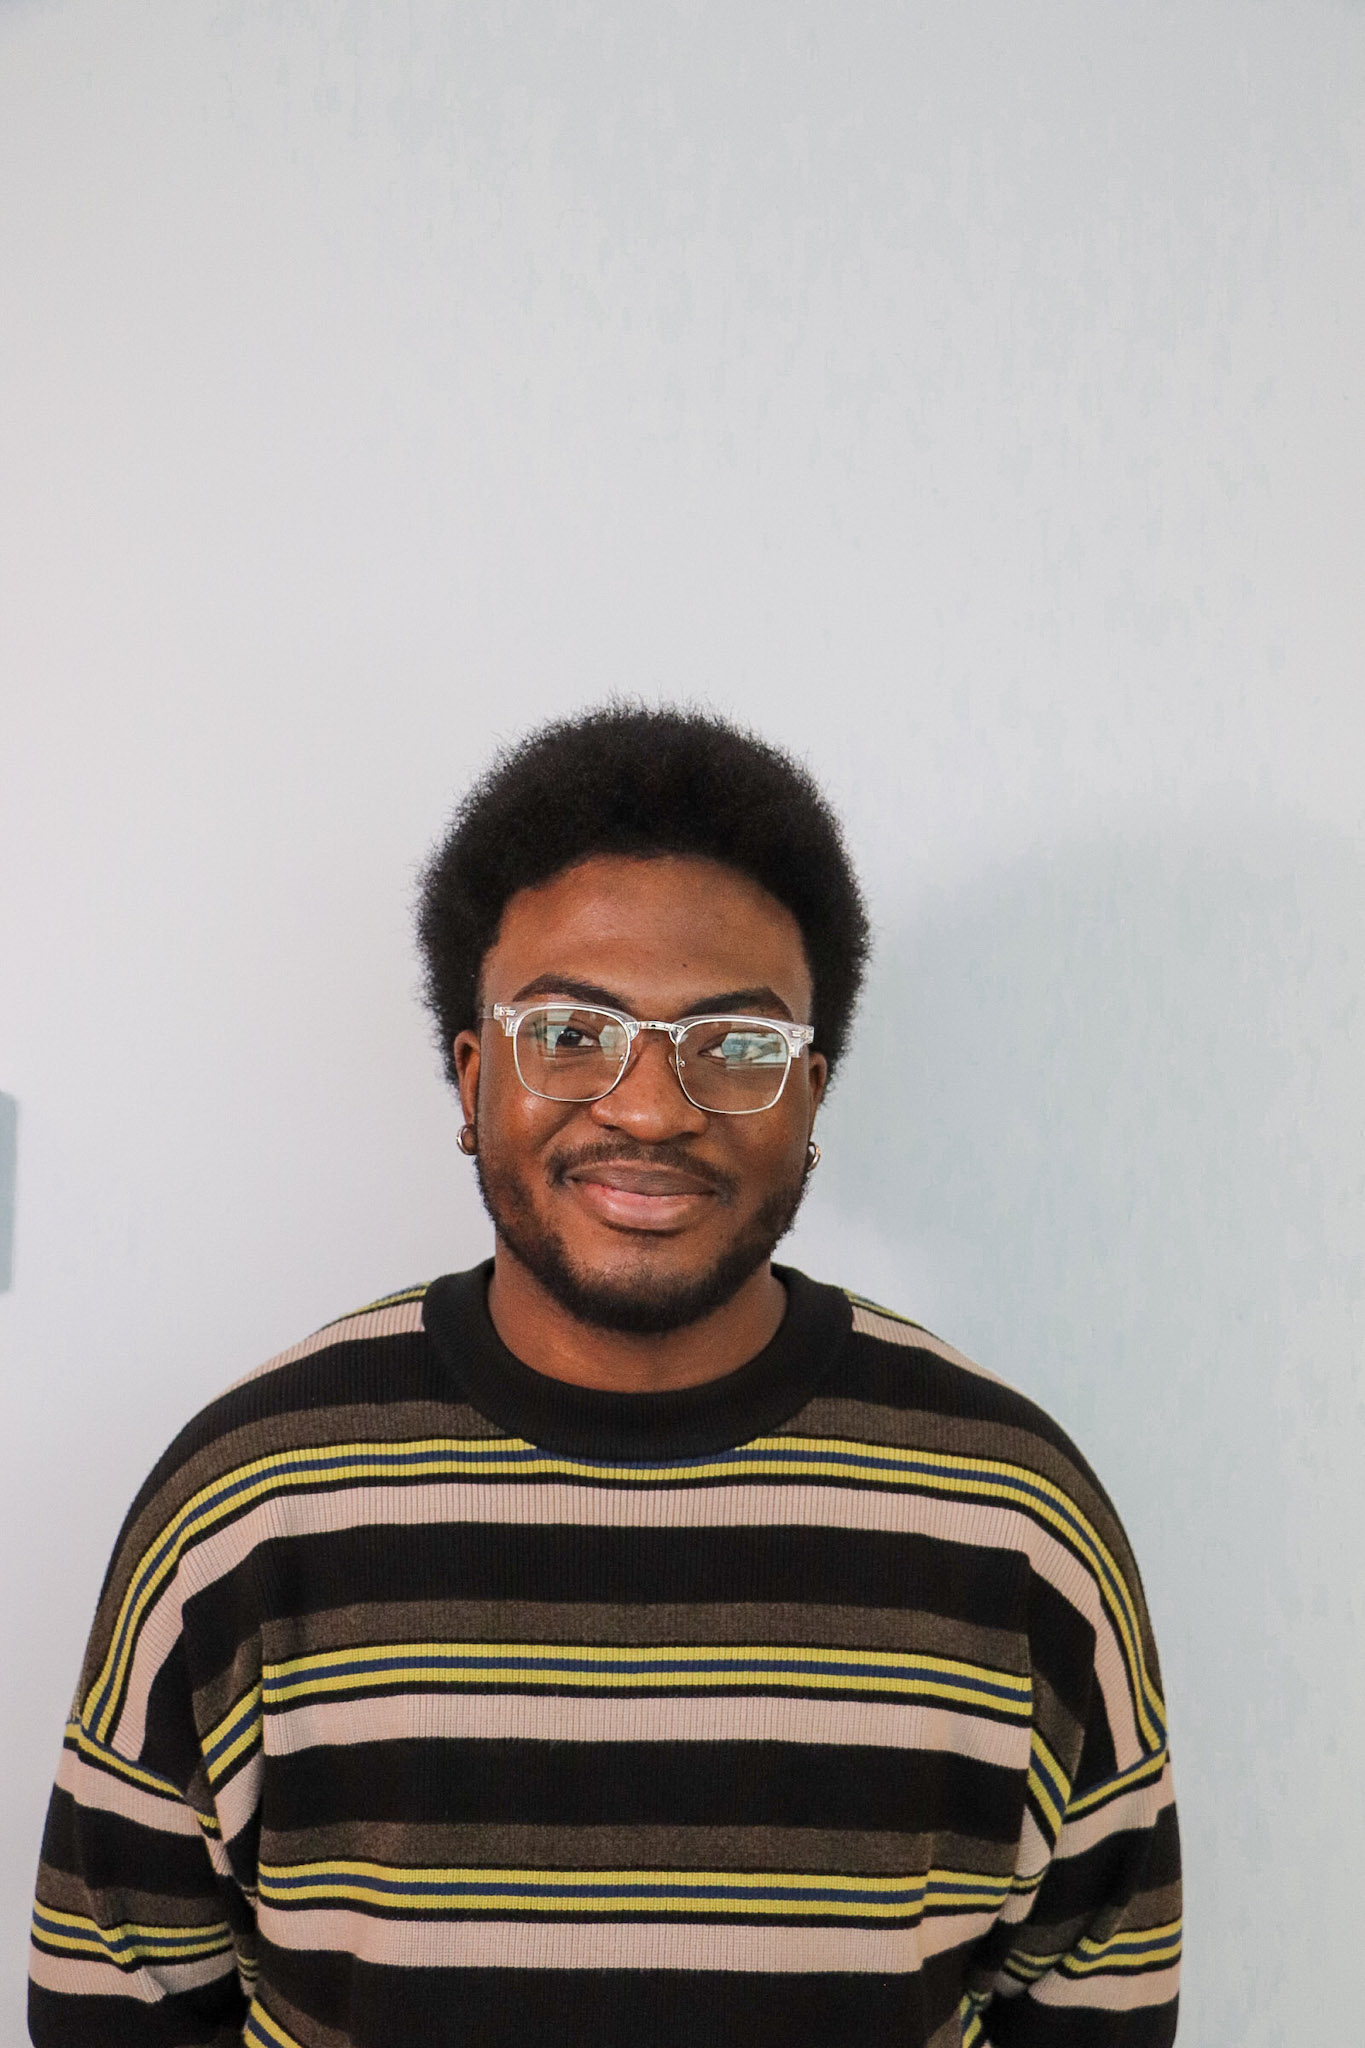
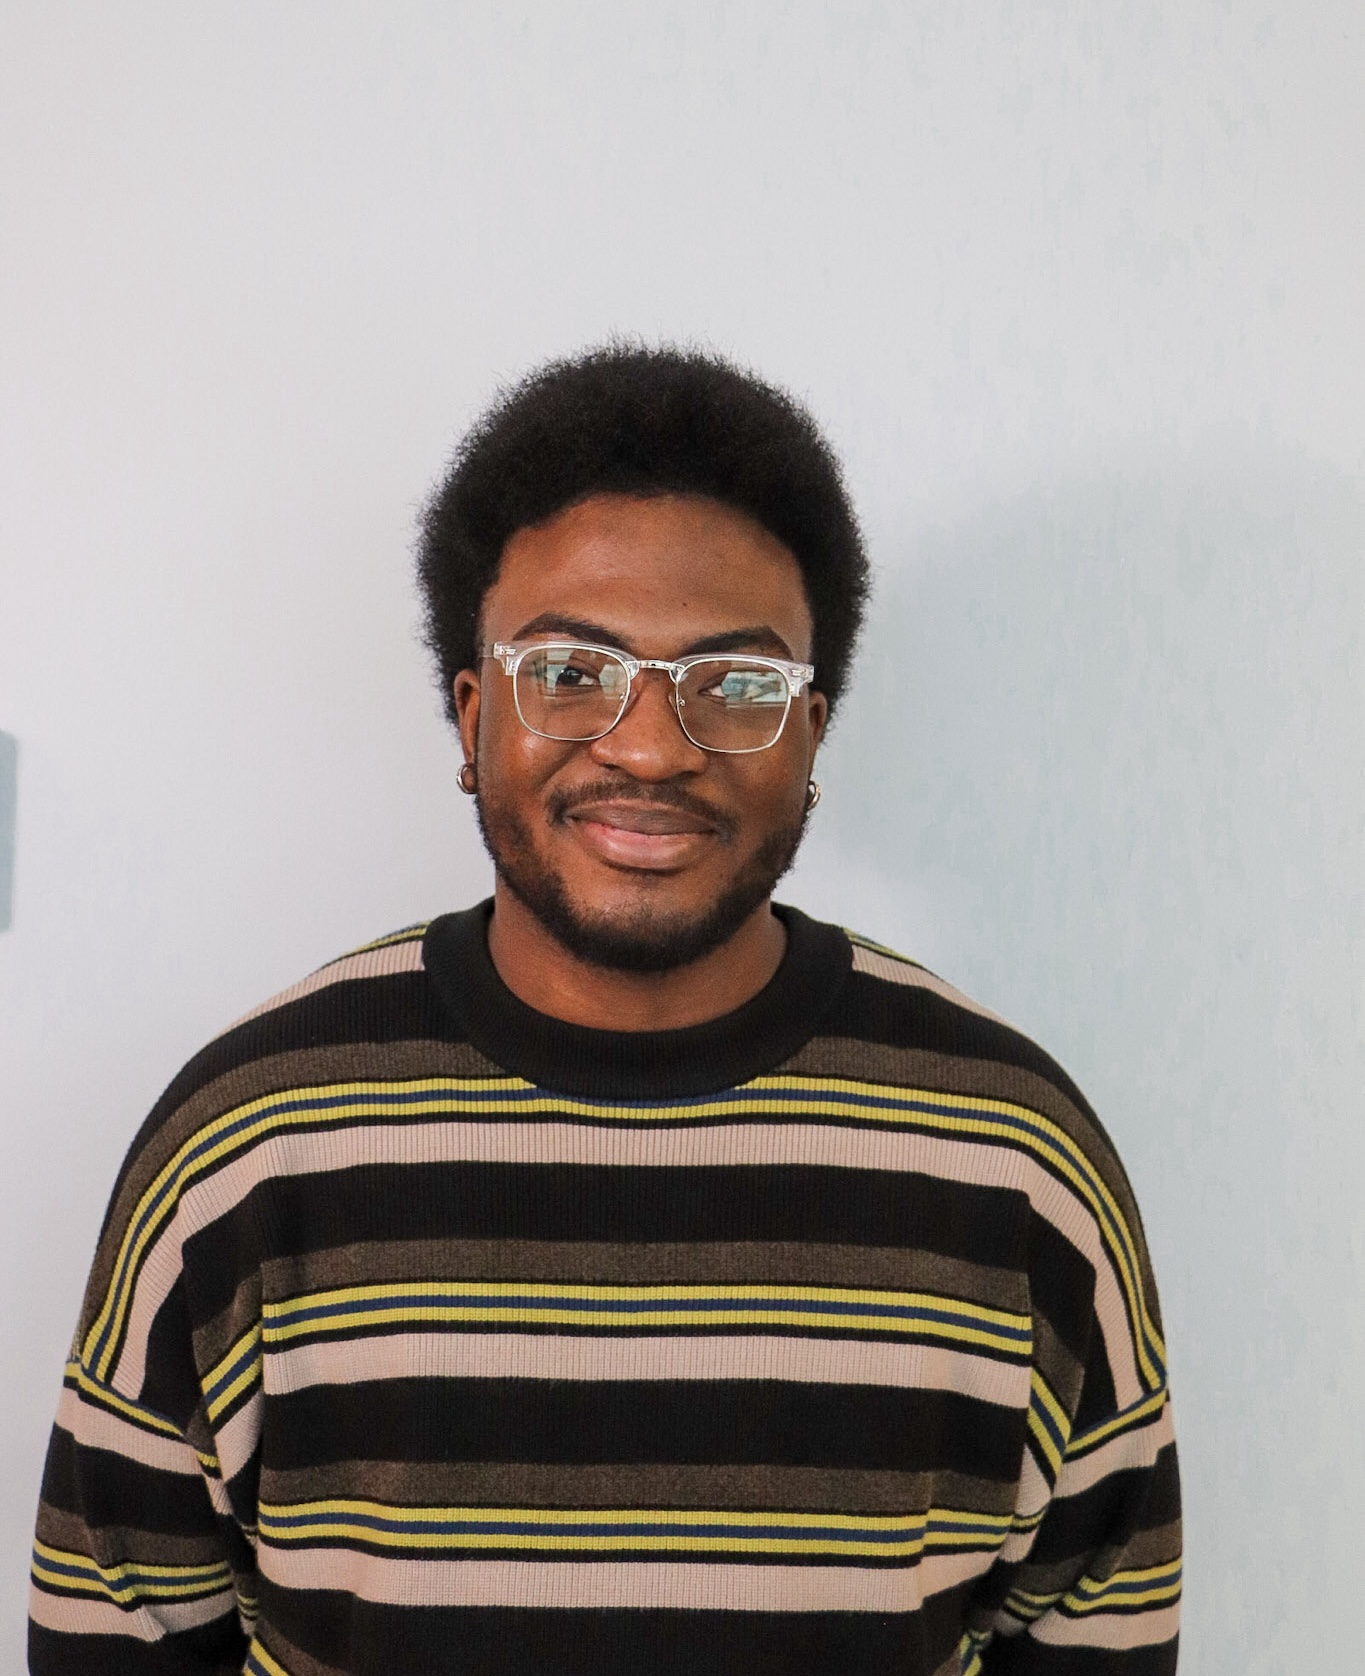
Added team members to the teams section

diff --git a/src/pages/Team.jsx b/src/pages/Team.jsx
@@ -16,6 +16,7 @@ import deji from '../assets/Deji.JPG'
 import shelmah from '../assets/Shelmah_Chebet.png'
 import muneeb from '../assets/muneeb.jpg'
 import damiola from '../assets/damilola.jpg'
+import batool from '../assets/Batool.jpg'
 import leftArrow from '../assets/left-arrow.png';
 import rightArrow from '../assets/right-arrow.png';
 import '../types/Team.css'
@@ -53,7 +54,8 @@ const teamData = {
             { name: 'Deji', role: 'Developer', img: deji, insta: 'https://www.instagram.com/lildejix?igsh=MTI2czM5anE5MjNyYQ%3D%3D&utm_source=qr', linkedin: 'https://www.linkedin.com/in/ayodeji-onawunmi-618835208/', github: 'https://github.com/DejMan2003' },
             { name: 'Shelmah Chebet', role: '', img: shelmah, insta: '', linkedin: '', github: '' },
             { name: 'Muneeb', role: '', img: muneeb, insta: '', linkedin: '', github: '' },
-            { name: 'Damiola', role: 'Outreach', img: damiola, insta: '', linkedin: '', github: '' },
+            { name: 'Damilola', role: 'Outreach', img: damiola, insta: '', linkedin: '', github: '' },
+            { name: 'Batool Kazmi', role: 'Designer', img: batool, insta: 'https://www.instagram.com/_humain_ain/,', linkedin: 'https://www.linkedin.com/in/batoolkazmi/', github: 'https://github.com/BatoolKazmi' },
         ],
     },
     HR: {
@@ -202,7 +204,7 @@ function Team() {
           <img
             src={member.img}
             alt={member.name}
-            className="w-full h-60 sm:h-40 md:h-80 object-cover rounded-lg"
+            className="w-full h-60 sm:h-40 md:h-80 object-cover object-[center_25%] rounded-lg"
           />
         </div>
         <h3 className="text-lg sm:text-xl font-semibold mt-4">{member.name}</h3>

diff --git a/src/pages/Contact.jsx b/src/pages/Contact.jsx
@@ -101,18 +101,18 @@ const Contact = () => {
       },
       body: JSON.stringify(webhookBody),
     })
-      .then((response) => {
-        if (response.ok) {
-          setSuccessMessage('Message sent successfully!');
-          reset();
-        } else {
-          toast.error('An error occurred while sending the message.');
-        }
-      })
-      .catch((error) => {
-        console.error('Error:', error);
-        toast.error('An unknown error occurred on the server.');
-      });
+    .then((response) => {
+      if (response.ok) {
+        setSuccessMessage('Message sent successfully!');
+        reset();
+      } else {
+        toast.error('An error occurred while sending the message.');
+      }
+    })
+    .catch((error) => {
+      console.error('Error:', error);
+      toast.error('An unknown error occurred on the server.');
+    });
   };
 
   // Utility functions
